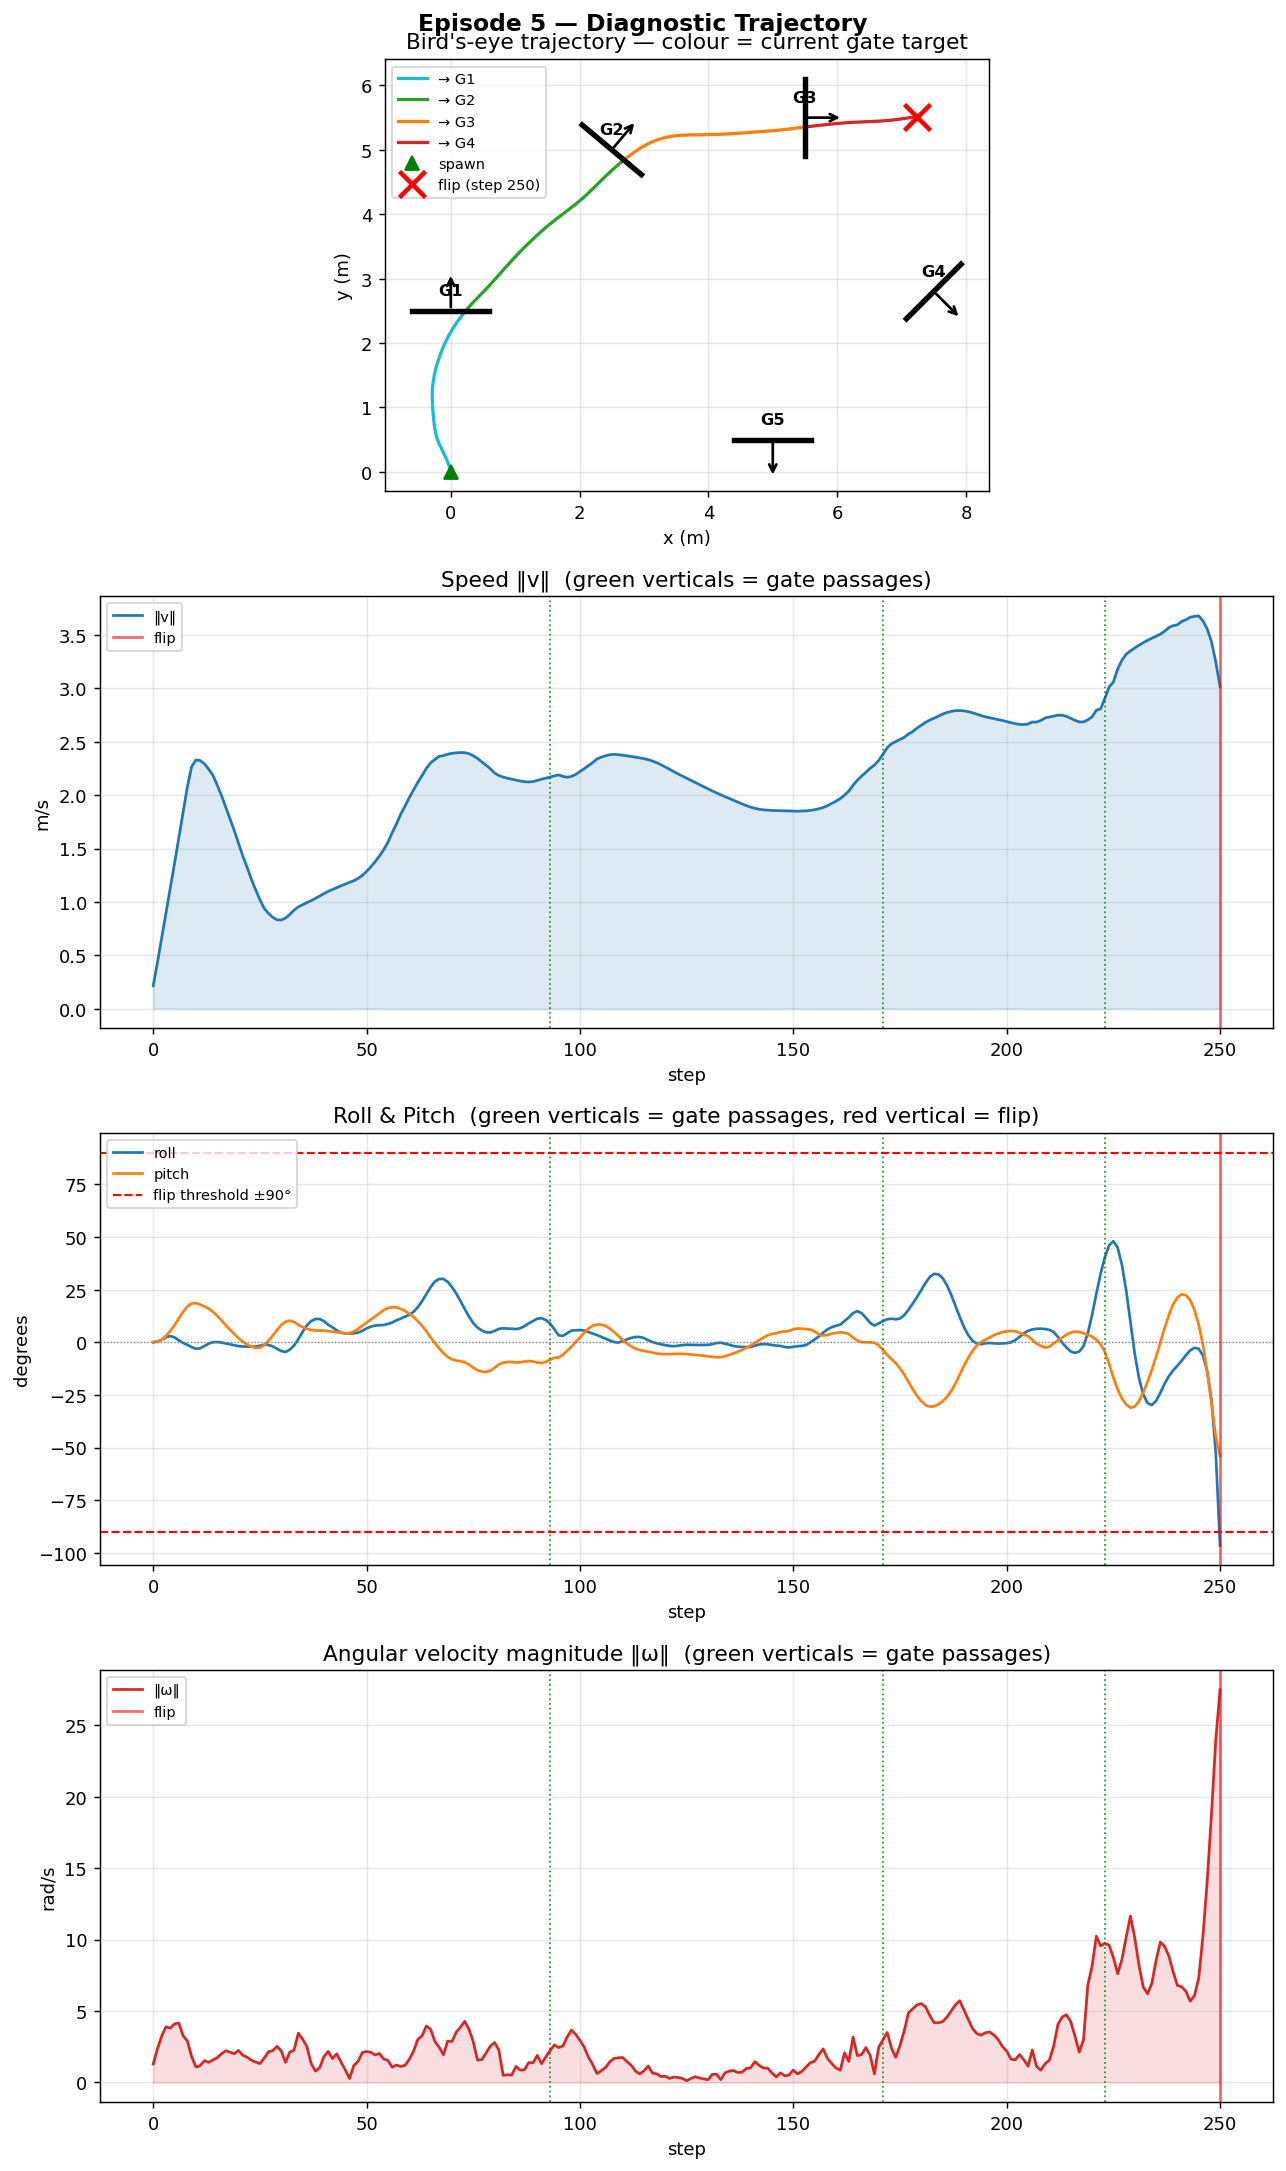
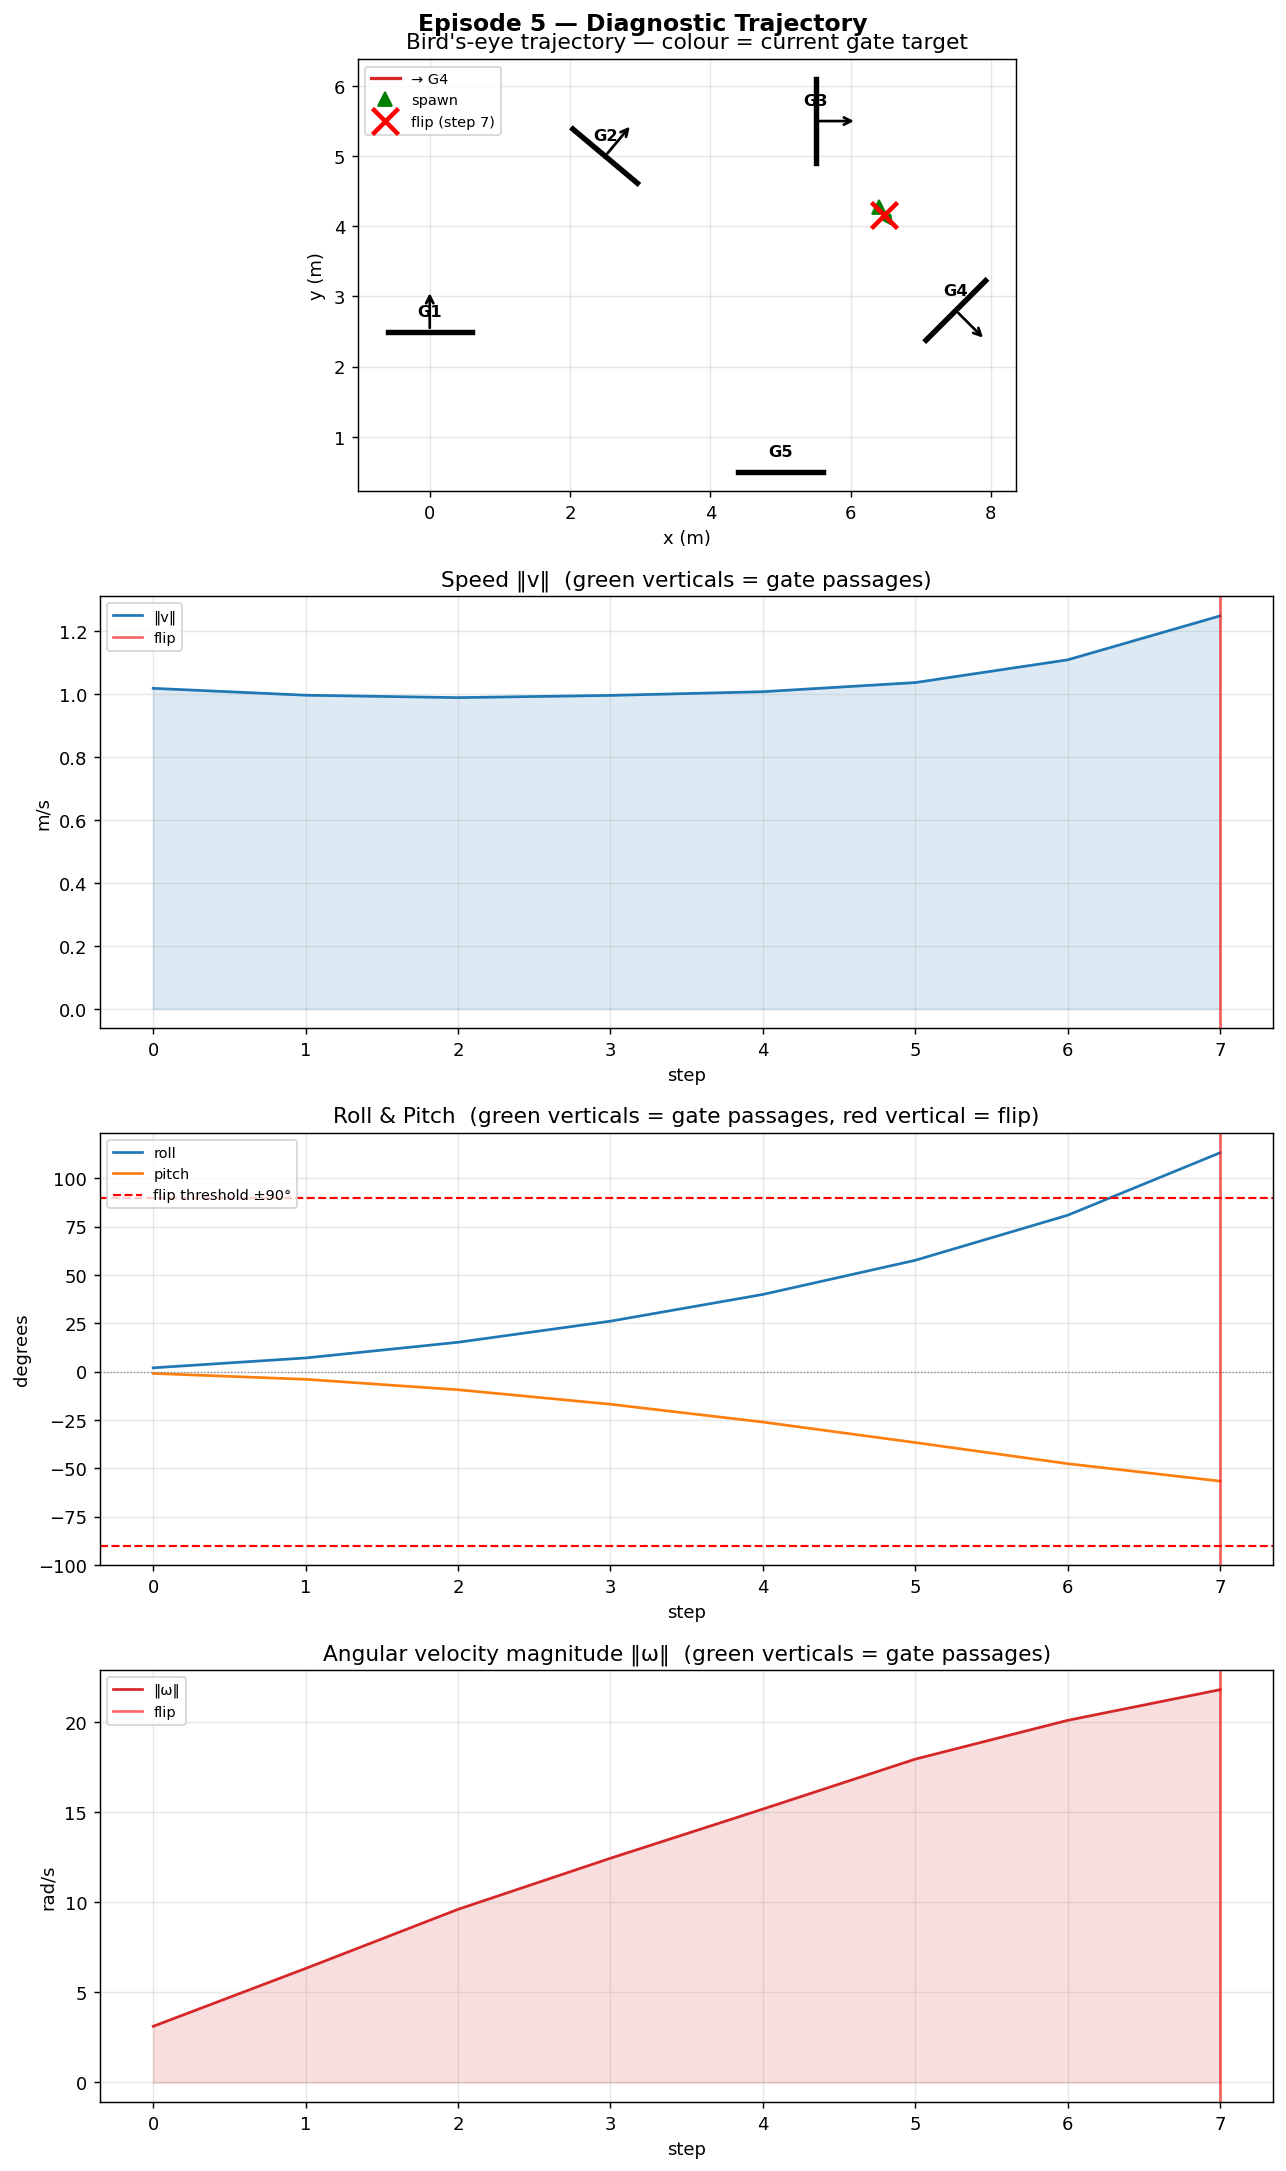
spawn starting direction facing gate

diff --git a/envs/drone_racing_env.py b/envs/drone_racing_env.py
@@ -358,20 +358,26 @@ class DroneRacingEnv(BaseAviary):
         """
         prev_gate = self._gate_manager.gates[k - 1]
 
-        # G3→G4 tight corner: spawn on the chord between gates, not past G3's exit.
+        # ── Spawn position ────────────────────────────────────────────────────
+        # G3→G4 tight corner: spawn along the G3→G4 chord so the drone has
+        # enough runway before G4's x-coordinate.  All other transitions spawn
+        # just past gate k-1's exit plane.
         if k == 3 and len(self._gate_manager.gates) > k:
-            next_gate = self._gate_manager.gates[k]
-            arc_dir = (next_gate.position - prev_gate.position).copy()
-            arc_dir[2] = 0.0                          # horizontal only; altitude unchanged
-            arc_dir /= np.linalg.norm(arc_dir)
-            spawn_pos = prev_gate.position.copy()
-            spawn_pos += arc_dir * self._SPAWN_OFFSET
-            exit_yaw  = float(np.arctan2(arc_dir[1], arc_dir[0]))
-            spawn_vel = (arc_dir * self._ARC_SPAWN_SPEED).tolist()
+            chord = (self._gate_manager.gates[k].position - prev_gate.position).copy()
+            chord[2] = 0.0
+            chord /= np.linalg.norm(chord)
+            spawn_pos   = prev_gate.position.copy() + chord * self._SPAWN_OFFSET
+            spawn_speed = self._ARC_SPAWN_SPEED
         else:
-            spawn_pos = prev_gate.position + prev_gate.normal * self._SPAWN_OFFSET
-            exit_yaw  = float(np.arctan2(prev_gate.normal[1], prev_gate.normal[0]))
-            spawn_vel = (prev_gate.normal * self._SPAWN_SPEED).tolist()
+            spawn_pos   = prev_gate.position + prev_gate.normal * self._SPAWN_OFFSET
+            spawn_speed = self._SPAWN_SPEED
+
+        # ── Face toward the target gate ───────────────────────────────────────
+        to_target = self._gate_manager.gates[k].position - spawn_pos
+        to_target[2] = 0.0                           # horizontal only
+        to_target /= np.linalg.norm(to_target)
+        exit_yaw  = float(np.arctan2(to_target[1], to_target[0]))
+        spawn_vel = (to_target * spawn_speed).tolist()
 
         quat = p.getQuaternionFromEuler(
             [0.0, 0.0, exit_yaw], physicsClientId=self.CLIENT

diff --git a/evaluate.py b/evaluate.py
@@ -255,6 +255,16 @@ def _save_traj_plot(
         label = (f"→ G{seg + 1}" if seg < num_gates else "post-last")
         ax.plot(pos[mask, 0], pos[mask, 1], color=color, lw=1.8, label=label)
     ax.plot(pos[0, 0], pos[0, 1], "g^", ms=8, zorder=5, label="spawn")
+    spawn_yaw = rpy[0, 2]   # yaw in radians at first recorded step
+    _ARROW_LEN = 0.4
+    ax.annotate(
+        "",
+        xy=(pos[0, 0] + np.cos(spawn_yaw) * _ARROW_LEN,
+            pos[0, 1] + np.sin(spawn_yaw) * _ARROW_LEN),
+        xytext=(pos[0, 0], pos[0, 1]),
+        arrowprops=dict(arrowstyle="->", color="green", lw=2.0),
+        zorder=6,
+    )
     if flip_step is not None:
         ax.plot(pos[flip_step, 0], pos[flip_step, 1],
                 "rx", ms=14, mew=2.5, zorder=6, label=f"flip (step {flip_step})")
